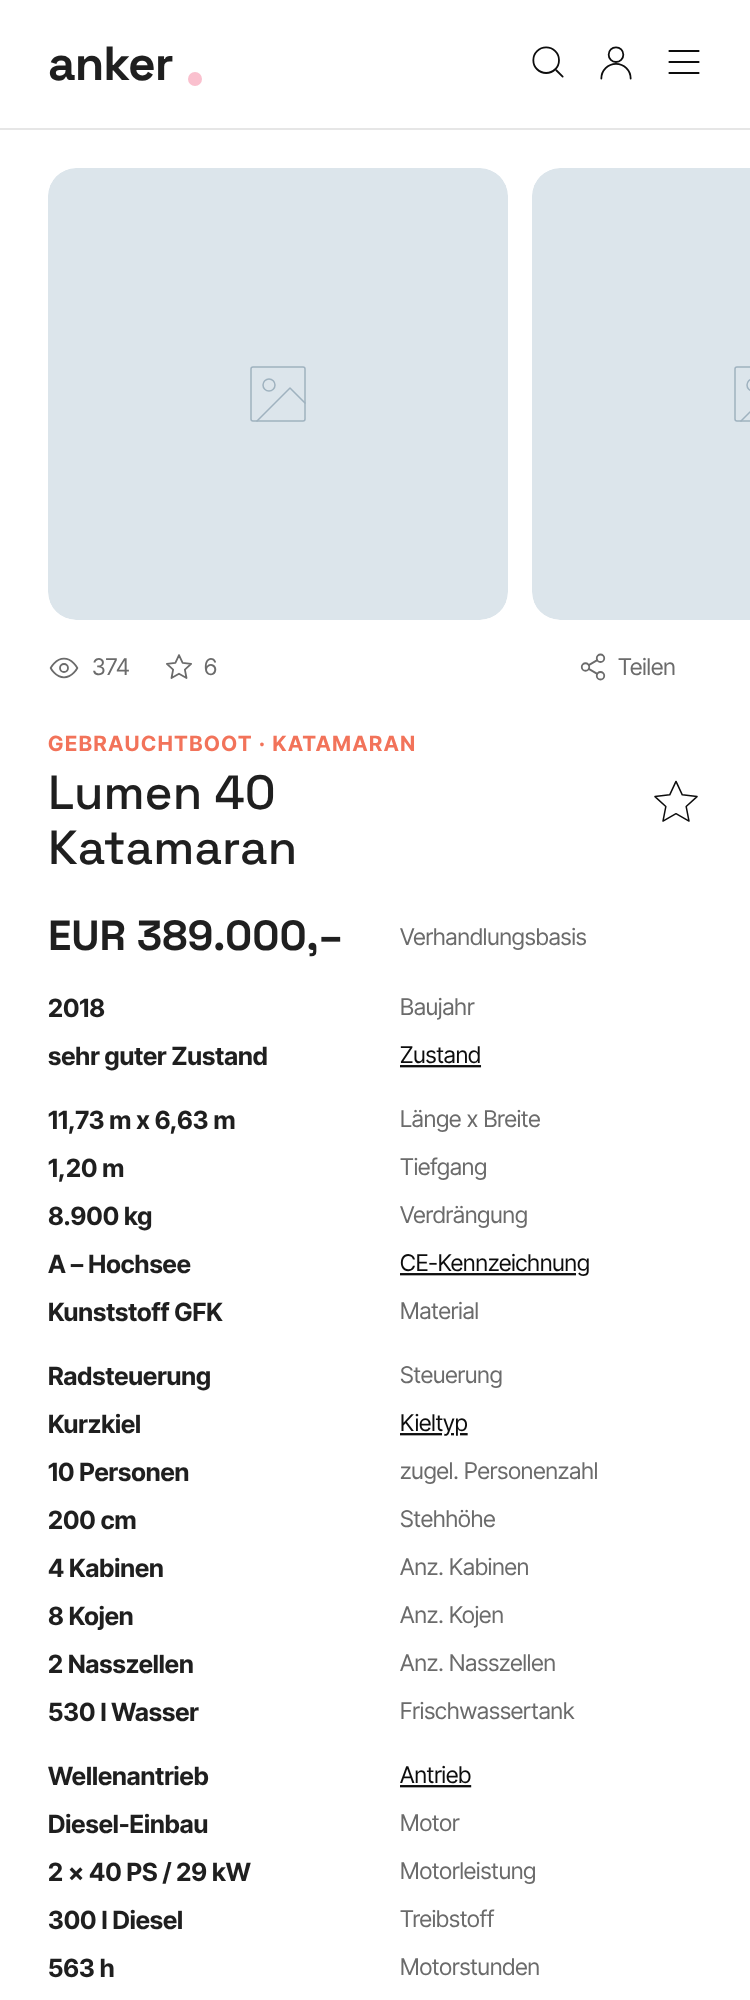
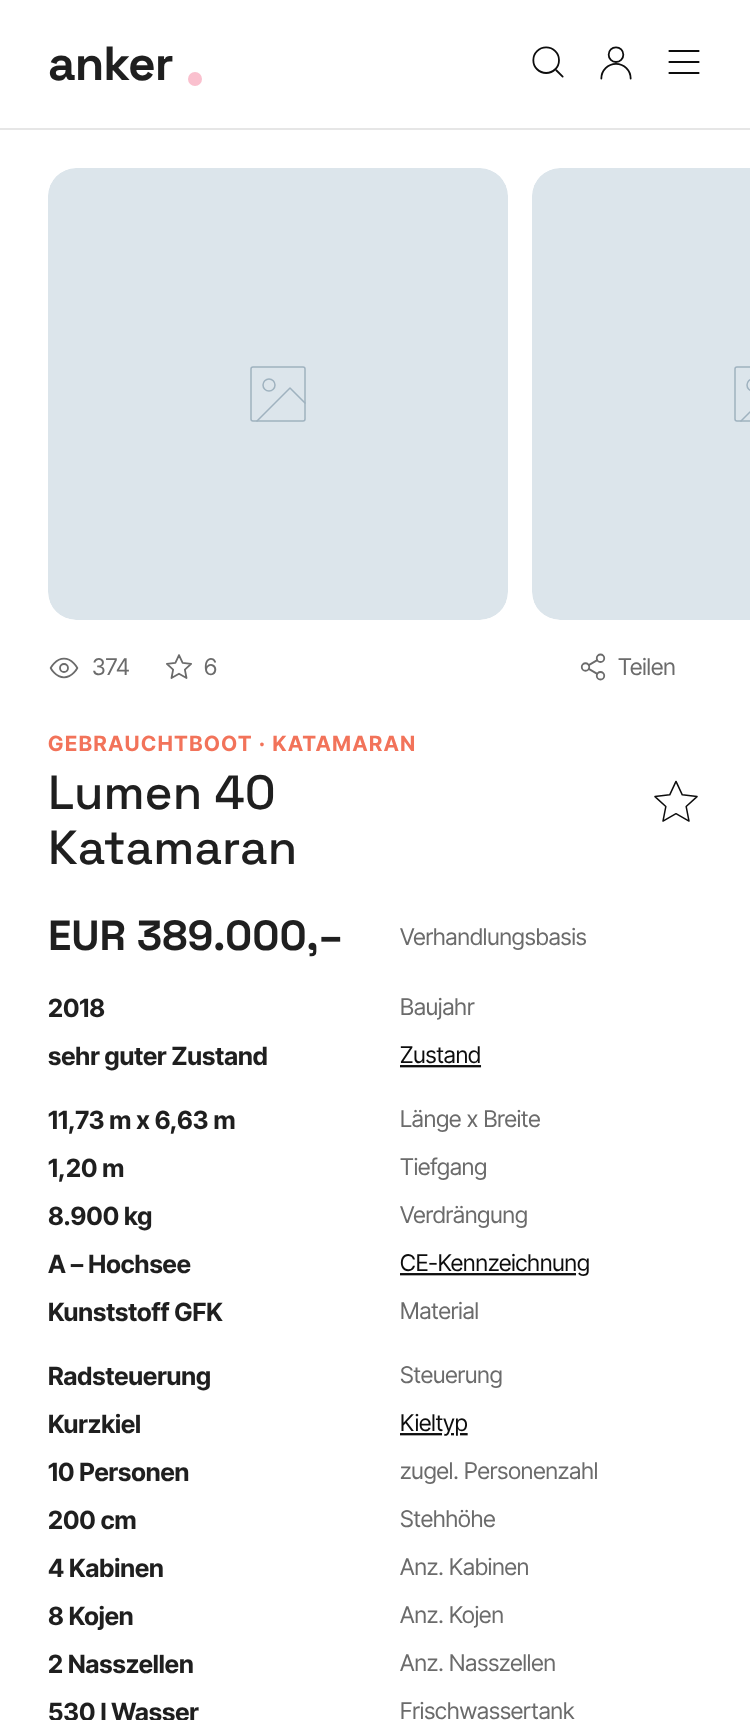
Boat case: drop expanded state, shorter screens; swipeable mobile compare
Claude-Session: https://claude.ai/code/session_01VCpzXNqt47KCJFf8eSNXAM

diff --git a/boat-listing.html b/boat-listing.html
@@ -58,11 +58,10 @@
       <div><dt>Methods</dt><dd>Content audit, prioritisation, 3 layout variants for A/B testing</dd></div>
     </dl>
 
-    <div class="compare mobile">
-      <figure class="shot reveal"><div class="frame cut"><img src="img/cs5/ctrl.png" width="750" height="2000" alt="Control: boat listing on mobile with a long two-column list of more than 30 specifications directly below the price." loading="lazy"></div><figcaption><span class="label">CONTROL</span>Full data list</figcaption></figure>
-      <figure class="shot reveal" style="--d:.08s"><div class="frame cut"><img src="img/cs5/var1.png" width="750" height="2000" alt="Variant 1: four key facts with icons – year, dimensions, location, engine power – followed by the full list." loading="lazy"></div><figcaption><span class="label alt">VAR 01</span>Key facts + full list</figcaption></figure>
-      <figure class="shot reveal" style="--d:.16s"><div class="frame cut"><img src="img/cs5/var2.png" width="750" height="2000" alt="Variant 2: four key facts, the full list collapsed behind 'more details', location and remarks move up." loading="lazy"></div><figcaption><span class="label alt">VAR 02</span>Key facts, details collapsed</figcaption></figure>
-      <figure class="shot reveal" style="--d:.24s"><div class="frame cut"><img src="img/cs5/var3.png" width="750" height="2000" alt="Variant 2 expanded: the full list shown after tapping 'more details', with a 'fewer details' link to collapse it again." loading="lazy"></div><figcaption><span class="label alt">VAR 02</span>…expanded</figcaption></figure>
+    <div class="compare mobile three">
+      <figure class="shot reveal"><div class="frame cut"><img src="img/cs5/ctrl.png" width="750" height="1720" alt="Control: boat listing on mobile with a long two-column list of more than 30 specifications directly below the price." loading="lazy"></div><figcaption><span class="label">CONTROL</span>Full data list</figcaption></figure>
+      <figure class="shot reveal" style="--d:.08s"><div class="frame cut"><img src="img/cs5/var1.png" width="750" height="1720" alt="Variant 1: four key facts with icons – year, dimensions, location, engine power – followed by the full list." loading="lazy"></div><figcaption><span class="label alt">VAR 01</span>Key facts + full list</figcaption></figure>
+      <figure class="shot reveal" style="--d:.16s"><div class="frame cut"><img src="img/cs5/var2.png" width="750" height="1720" alt="Variant 2: four key facts, the full list collapsed behind 'more details', location and remarks move up." loading="lazy"></div><figcaption><span class="label alt">VAR 02</span>Key facts, details collapsed</figcaption></figure>
     </div>
     <p class="note reveal" style="margin-top:14px">Screens recreated and anonymised – marketplace branding, boat, seller and photos replaced with a fictional listing.</p>
 

diff --git a/style.css b/style.css
@@ -204,6 +204,7 @@
   .shot .frame img{display:block;width:100%;height:auto}
   .compare.mobile{grid-template-columns:repeat(4,1fr);gap:16px}
   .compare.mobile .shot figcaption{flex-wrap:wrap}
+  .compare.mobile.three{grid-template-columns:repeat(3,1fr);max-width:960px}
   .shot .frame img{width:100%;height:auto}
   .shot figcaption{display:flex;gap:10px;align-items:center;font-size:14px;color:var(--muted)}
   .label{font-family:"Space Grotesk",sans-serif;font-weight:500;font-size:12px;letter-spacing:.06em;padding:4px 8px;border-radius:6px;background:var(--surface);border:1px solid var(--line);color:#fff}
@@ -254,7 +255,9 @@
   .back{color:var(--muted);font-weight:500;font-size:16px;transition:color .2s}.back:hover{color:#fff}
   @media (max-width:1000px){
     .compare{grid-template-columns:1fr}
-    .compare.mobile{grid-template-columns:1fr 1fr}
+    .compare.mobile,.compare.mobile.three{display:flex;overflow-x:auto;scroll-snap-type:x mandatory;gap:14px;margin-right:calc(-1 * var(--pad));padding-right:var(--pad);scrollbar-width:none}
+    .compare.mobile::-webkit-scrollbar{display:none}
+    .compare.mobile .shot{flex:0 0 min(62%,300px);scroll-snap-align:start}
     .cs-body{grid-template-columns:1fr;gap:40px}
     .toc{display:none}
     .facts{grid-template-columns:1fr 1fr}
